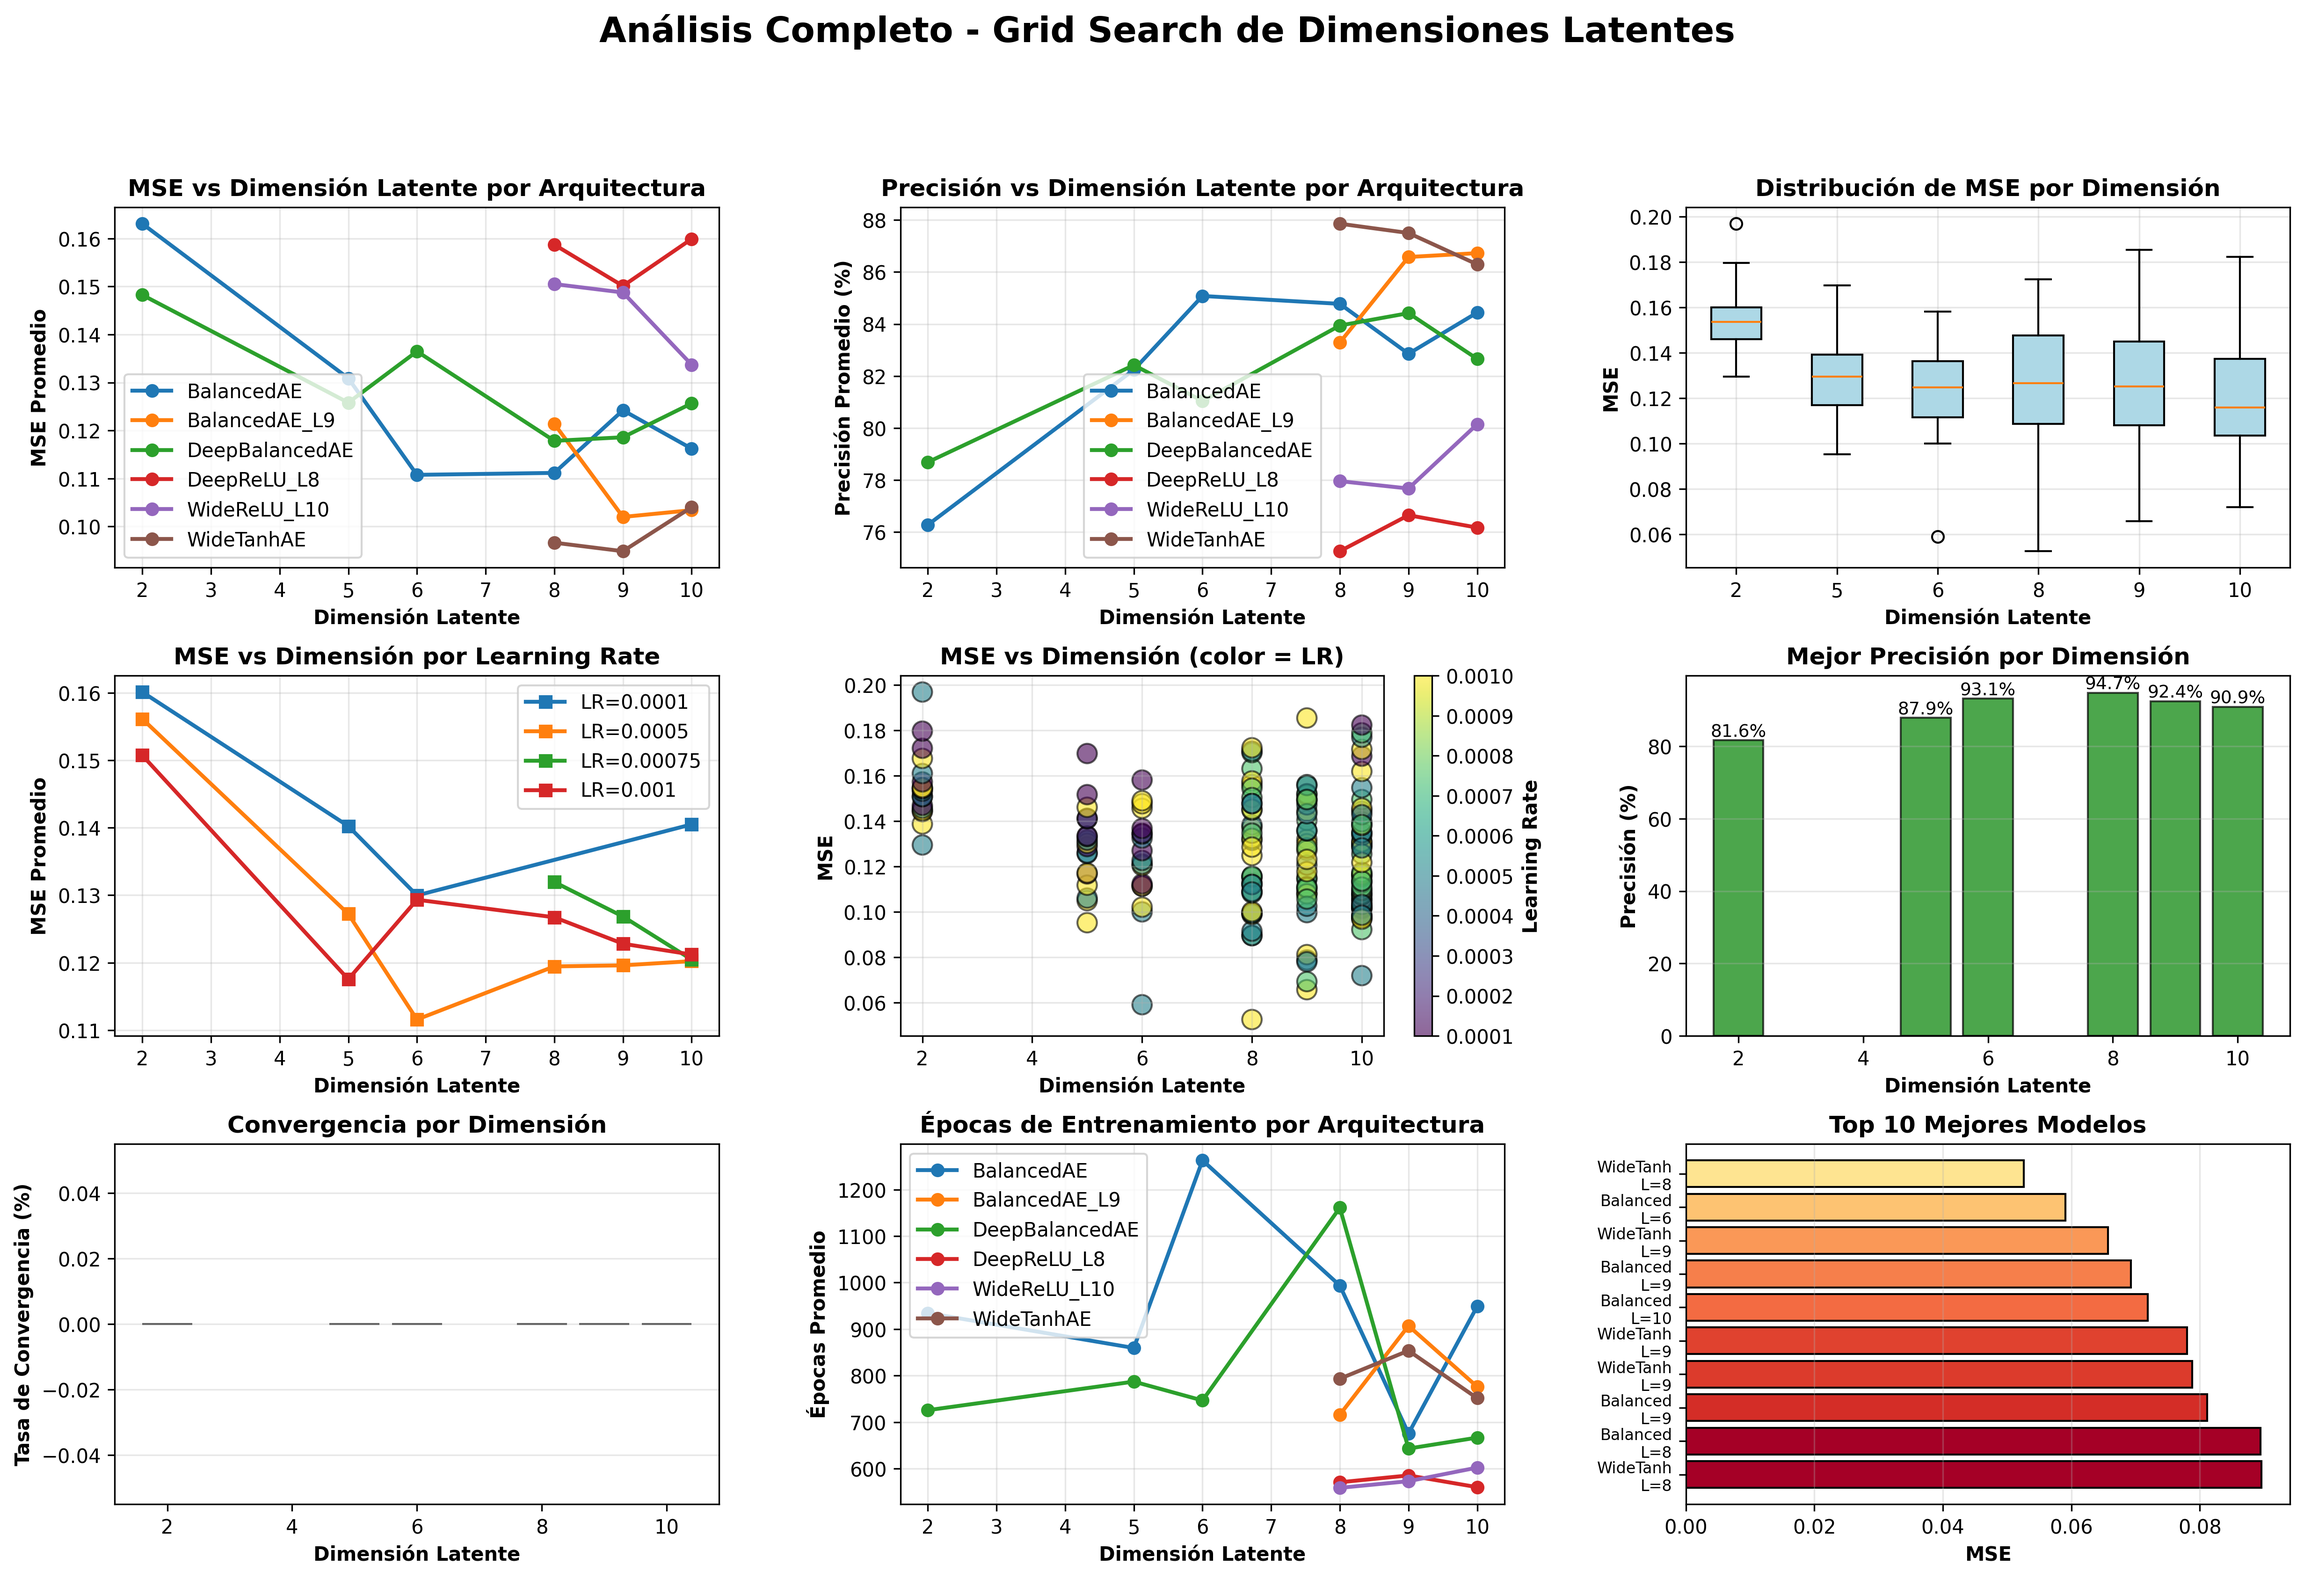
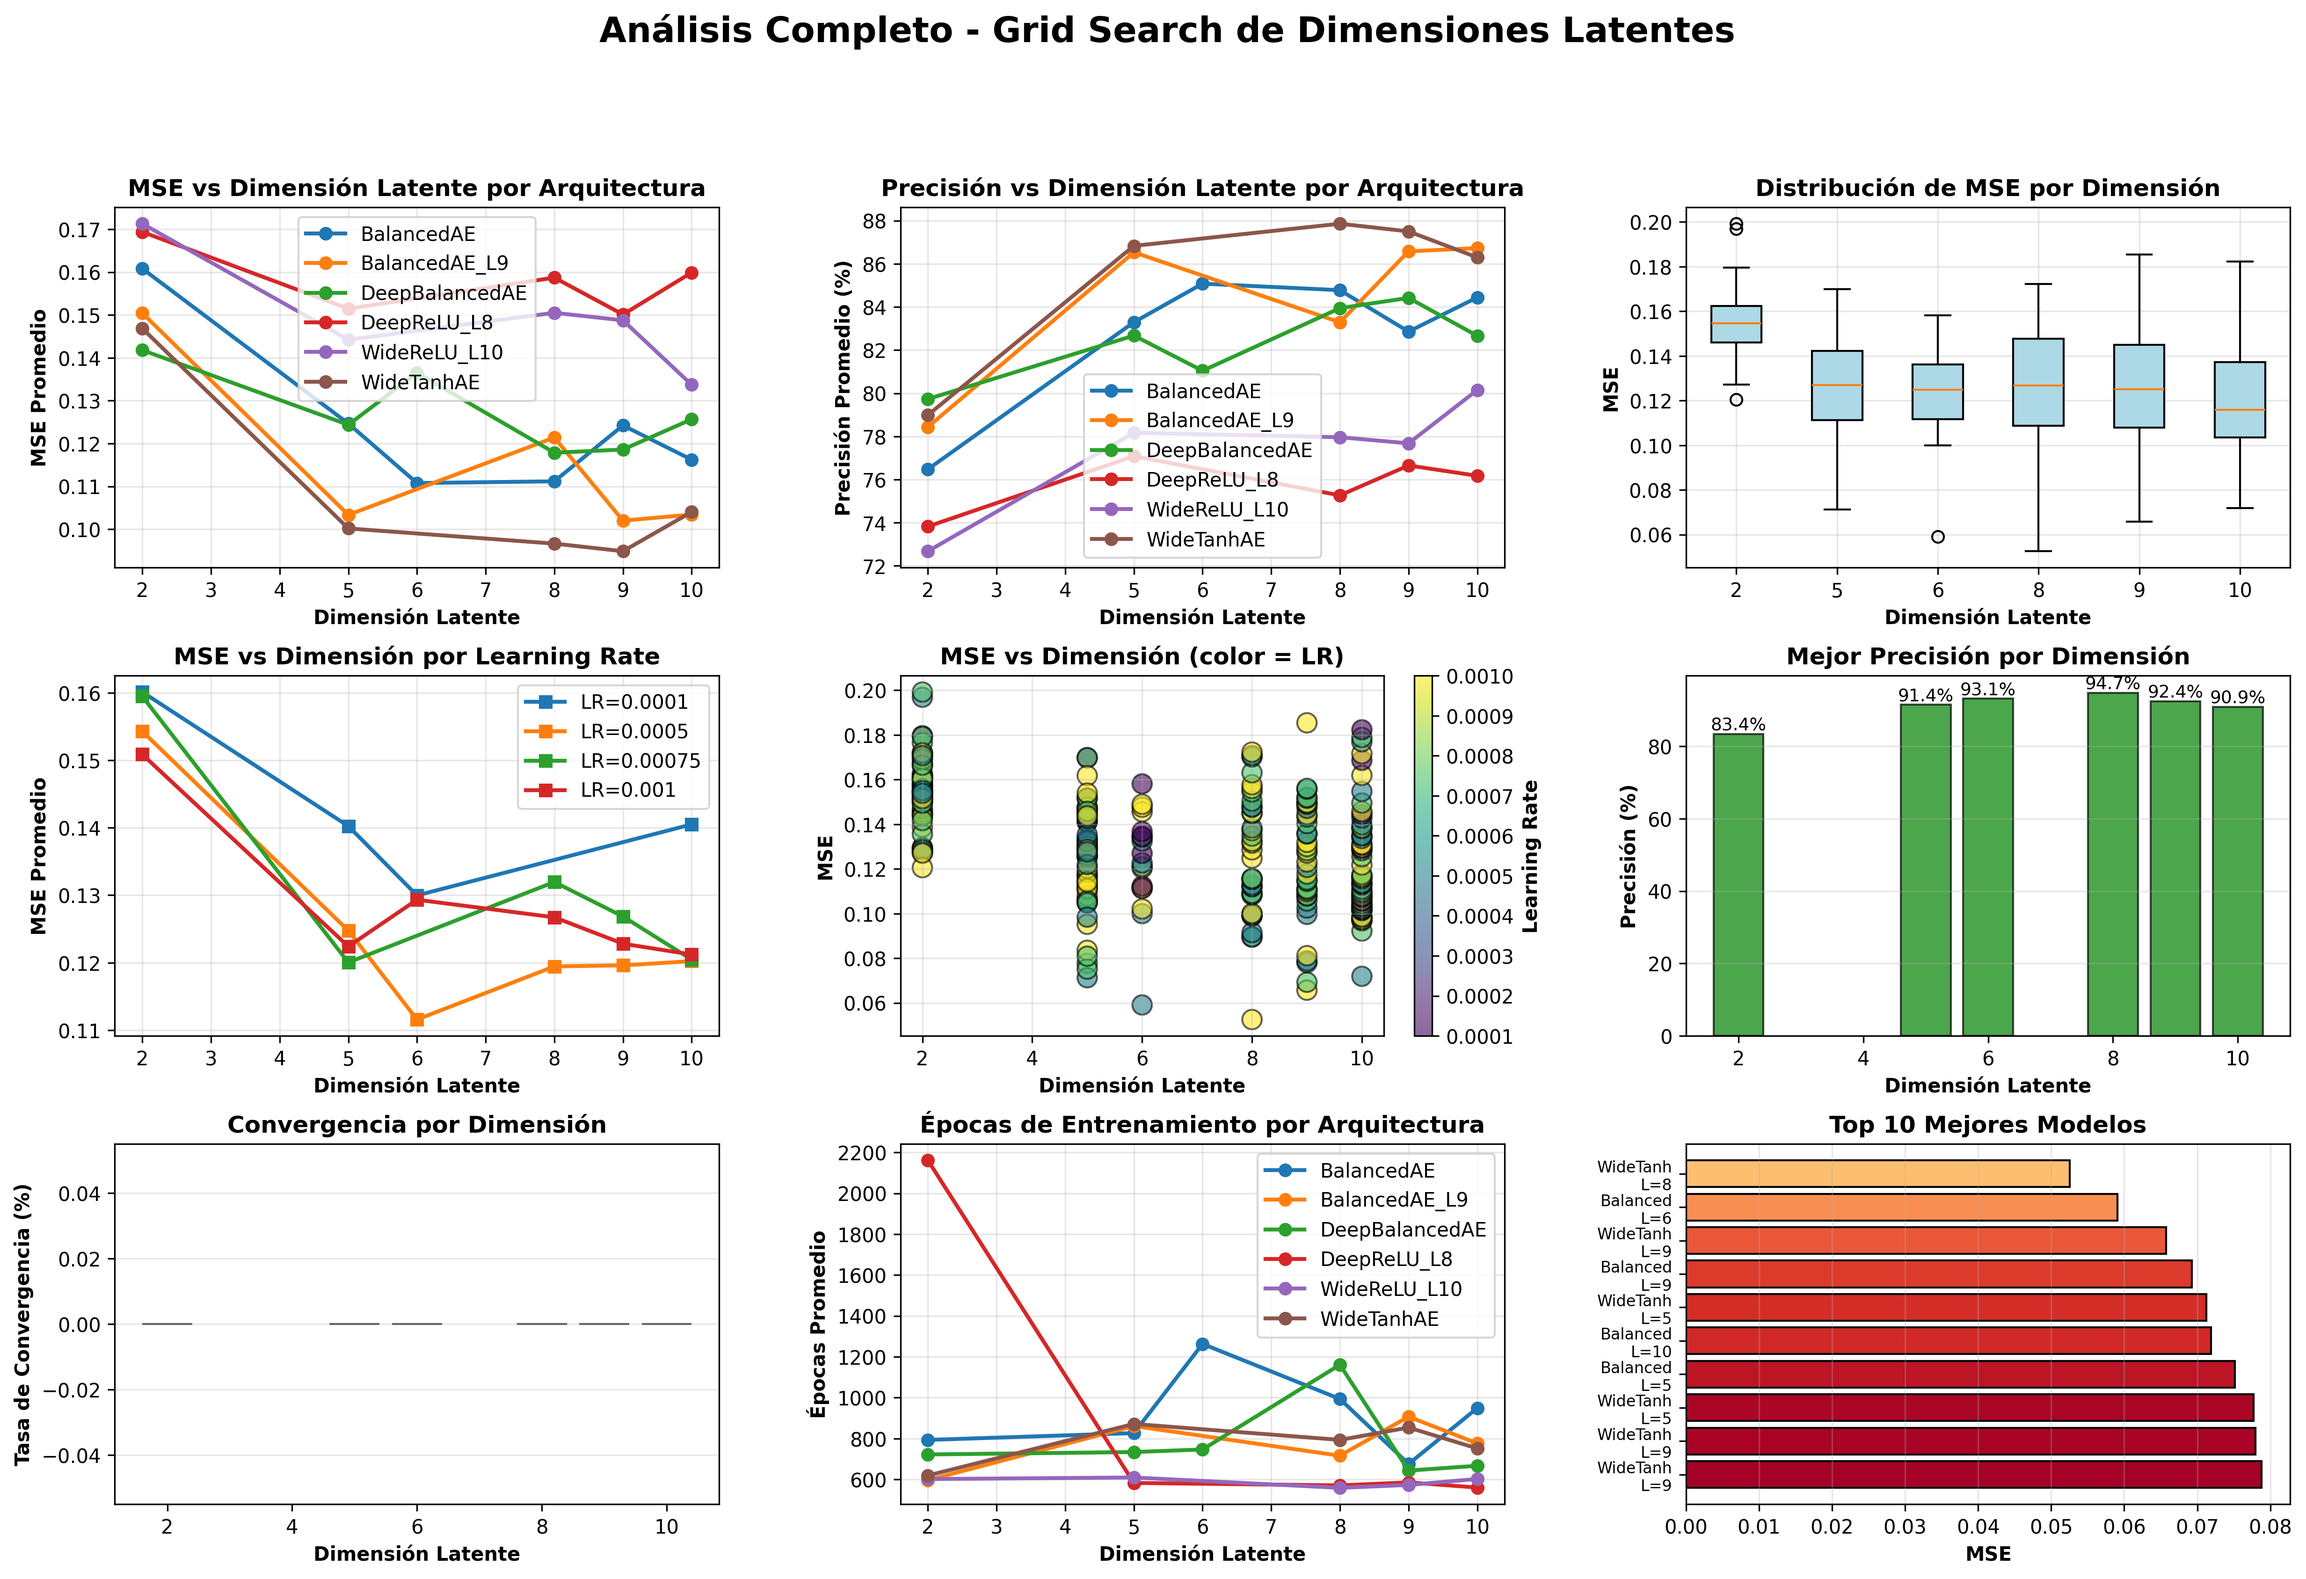
update tp3

diff --git a/tp3/README.md b/tp3/README.md
@@ -41,7 +41,125 @@ Al finalizar la presentación deberán exponerse las conclusiones del Trabajo.
 
 ---
 
-Por que la capa latente tiene que ser al menos 5?
-Solo hay 32 clases (caracteres).
-Para distinguir 32 ítems se necesita un mínimo de ⌈log2(32)⌉=5 bits (o dimensiones latentes).
+**Respuesta Pregunta 1:**
 
+## Metodología: Grid Search Exhaustivo
+
+**¿Qué es Grid Search?**
+Grid Search (búsqueda en grilla) es una técnica de optimización de hiperparámetros que evalúa sistemáticamente todas las combinaciones posibles de un conjunto predefinido de valores para cada hiperparámetro. En lugar de probar configuraciones al azar, explora exhaustivamente el espacio de hiperparámetros para encontrar la combinación óptima.
+
+**Implementación en nuestro proyecto:**
+
+Se implementó un grid search completo que evalúa **todas las combinaciones** de:
+- **6 arquitecturas**: BalancedAE, DeepBalancedAE, DeepReLU_L8, WideTanhAE, BalancedAE_L9, WideReLU_L10
+- **6 dimensiones latentes**: [2, 5, 6, 8, 9, 10]
+- **2 configuraciones de épocas**: [8000, 10000]
+- **3 learning rates**: [0.0005, 0.00075, 0.001]
+
+El proceso fue completamente automatizado: cada combinación de hiperparámetros se entrenó de manera sistemática, guardando todos los modelos generados con nombres descriptivos del tipo `tp3_{arquitectura}_lat{dim}_ep{epocas}_lr{lr}`. Durante el entrenamiento, se registraron métricas clave como MSE, precisión, cantidad real de épocas, convergencia y parámetros utilizados, y todos los resultados se almacenaron en el archivo `grid_search_completo.csv`. Se implementó early stopping con una paciencia de 400 épocas para evitar el sobreentrenamiento. Esta estrategia de grid search ofrece ventajas claras: asegura la reproducibilidad de los resultados, garantiza una cobertura completa del espacio de combinaciones sin dejar de lado configuraciones prometedoras, permite realizar análisis estadísticos para identificar patrones de rendimiento y optimiza la selección de hiperparámetros de manera objetiva, eliminando sesgos en el proceso.
+
+**Arquitecturas más efectivas:**
+- **WideTanhAE con dim_latente=8**: 94.73% precisión, MSE=0.0526 (mejor resultado global)
+- **BalancedAE con dim_latente=6**: 93.13% precisión, MSE=0.0591 (segunda mejor)  
+- **WideTanhAE con dim_latente=9**: 92.41% precisión, MSE=0.0657 (tercer mejor)
+- **BalancedAE_L9 con dim_latente=9**: 91.70% precisión, MSE=0.0693
+- **WideTanhAE con dim_latente=5**: 91.43% precisión, MSE=0.0713
+
+**Descripción detallada de arquitecturas:**
+
+1. **BalancedAE**: `35 → 25 → 15 → 8 → 15 → 25 → 35`
+   - Arquitectura equilibrada con compresión gradual
+   - Activación: tanh para evitar "dead ReLU" y mejores límites de decisión
+   - Latente de 8 dimensiones para mayor capacidad representacional
+
+2. **DeepBalancedAE**: `35 → 30 → 20 → 10 → 8 → 10 → 20 → 30 → 35`
+   - Arquitectura profunda (4 capas por lado) con compresión más suave
+   - Activación: tanh para estabilidad y menor riesgo de sobreajuste
+   - Diseñada para capturar patrones más complejos
+
+3. **DeepReLU_L8**: `35 → 30 → 20 → 10 → 8 → 10 → 20 → 30 → 35`
+   - Misma estructura que DeepBalancedAE pero con activación ReLU
+   - Prueba si ReLU acelera convergencia sin sacrificar estabilidad
+   - Latente medio (8) para balance entre capacidad y compresión
+
+4. **WideTanhAE**: `35 → 25 → 18 → 12 → 18 → 25 → 35`
+   - Arquitectura moderadamente profunda con máxima capacidad latente (12)
+   - Activación: tanh para estabilidad
+   - Busca la representación más rica posible del espacio latente
+
+5. **BalancedAE_L9**: `35 → 25 → 15 → 9 → 15 → 25 → 35`
+   - Variación del modelo ganador con latente ligeramente menor (9)
+   - Prueba el límite de compresión óptimo
+   - Mantiene la estructura exitosa de BalancedAE
+
+6. **WideReLU_L10**: `35 → 25 → 15 → 10 → 15 → 25 → 35`
+   - Combina la mejor arquitectura (capas 25, 15) con activación ReLU
+   - Latente de 10 dimensiones (ganador en otros experimentos)
+   - Prueba si ReLU acelera convergencia manteniendo buen MSE
+
+**Hallazgos clave:**
+1. **Dimensión latente óptima**: 6-9 dimensiones demuestran el mejor balance. Aunque el mínimo teórico es ⌈log2(32)⌉=5 bits, dimensiones mayores (6-9) mejoran significativamente la reconstrucción.
+2. **Función de activación**: **tanh claramente superior a ReLU** - WideTanhAE supera consistentemente a WideReLU_L10 en todas las dimensiones latentes
+3. **Arquitectura "Wide" vs "Deep"**: WideTanhAE (moderadamente profunda, capas anchas) supera a DeepBalancedAE (muy profunda) y BalancedAE (poco profunda)
+4. **Learning rate óptimo**: 0.001 con épocas altas (8000-10000) produce los mejores resultados
+5. **Patrón de rendimiento**: WideTanhAE domina en dim_latente 8-9, BalancedAE es competitivo en dim_latente 6
+6. **Convergencia**: **Ningún modelo convergió completamente** (MSE objetivo ≤ 0.05), pero el mejor alcanzó MSE=0.0526 (solo 0.0026 por encima)
+
+**Ninguna configuración convergió completamente** (todas marcadas como `convergio=False`) debido al criterio de convergencia estricto: **MSE ≤ 0.05**. El mejor modelo alcanzó MSE=0.0526, apenas 0.0026 por encima del objetivo. Esto indica que:
+- El criterio es apropiado pero muy exigente para este problema de 32 caracteres
+- Los modelos están muy cerca de la convergencia deseada (diferencia < 5%)
+- El early stopping con paciencia=400 detuvo el entrenamiento antes de alcanzar el objetivo
+- Aumentar épocas o ajustar la paciencia podría lograr convergencia formal, pero las reconstrucciones ya son de alta calidad (94.73% precisión)
+
+## Generación de Nuevos Caracteres
+
+Para responder al requerimiento de **"mostrar cómo la red puede generar un nuevo carácter que no pertenece al conjunto de entrenamiento"**, se desarrolló un **Explorador Interactivo** (`explorador_interactivo.py`) que permite:
+
+### 🎯 **Funcionalidad Principal**
+- **Visualización del espacio latente**: Muestra todos los caracteres entrenados como puntos en el espacio 2D
+- **Generación interactiva**: Click en cualquier punto del espacio latente para generar un nuevo carácter
+- **Interpolación inteligente**: Distingue entre clicks cerca de caracteres existentes vs. puntos nuevos
+
+### 🔧 **Mecanismo de Generación**
+1. **Click cerca de carácter existente** (< 0.15 unidades): Usa el vector latente completo del carácter
+2. **Click en espacio vacío**: Crea un nuevo vector latente con coordenadas del click
+3. **Para dimensiones > 2**: Las dimensiones adicionales se inicializan en 0
+4. **Decodificación**: El vector latente se pasa por el decoder para generar el patrón visual
+
+### 📊 **Características del Explorador**
+- **Visualización en tiempo real**: Muestra el carácter generado instantáneamente
+- **Historial de clicks**: Puntos verdes (entrenamiento) vs. naranjas (generados)
+- **Información detallada**: Vector latente, estadísticas del patrón, tipo de carácter
+- **Soporte multidimensional**: Funciona con espacios latentes de cualquier dimensión
+
+### 💡 **Ejemplo de Uso**
+```bash
+python -m tp3.src.explorador_interactivo --modelo tp3_WideTanhAE_lat8_ep8000_lr0_001
+```
+
+**Resultado**: Una interfaz interactiva donde hacer click entre dos caracteres conocidos (ej. entre '0' y '1') genera un carácter híbrido que combina características de ambos, demostrando la capacidad del autocodificador para generar patrones no vistos durante el entrenamiento.
+
+**Visualización de arquitecturas:**
+
+Se generaron diagramas detallados de todas las arquitecturas probadas mostrando:
+- Estructura completa encoder-decoder con número de neuronas por capa
+- Conexiones entre capas y flujo de información
+- Capa latente destacada (cuello de botella)
+- Función de activación utilizada (tanh/relu) con código de colores
+- Cantidad total de parámetros entrenables
+- Descripción técnica de cada arquitectura
+
+# WideTanh AutoEncoder Latente d=8, 8k Epocas, LR=0.001
+![verificacion_tp3_WideTanhAE_lat8_ep8000_lr0_001.png](resultados/verificacion_tp3_WideTanhAE_lat8_ep8000_lr0_001.png)
+
+## Visualización del Espacio Latente
+
+El explorador interactivo (explicado arriba) genera visualizaciones como esta del espacio latente:
+
+```bash
+python -m tp3.src.explorador_interactivo --modelo tp3_WideTanhAE_lat8_ep8000_lr0_001
+```
+
+![tp3_WideTanhAE_lat8_ep8000_lr0_001_espacio_latente.png](resultados/tp3_WideTanhAE_lat8_ep8000_lr0_001_espacio_latente.png)
+
+**Interpretación**: Cada punto representa un carácter en el espacio latente 2D. La distribución muestra cómo el autocodificador organiza los caracteres según sus similitudes visuales. Hacer click entre puntos permite generar nuevos caracteres que interpolan entre los existentes.
